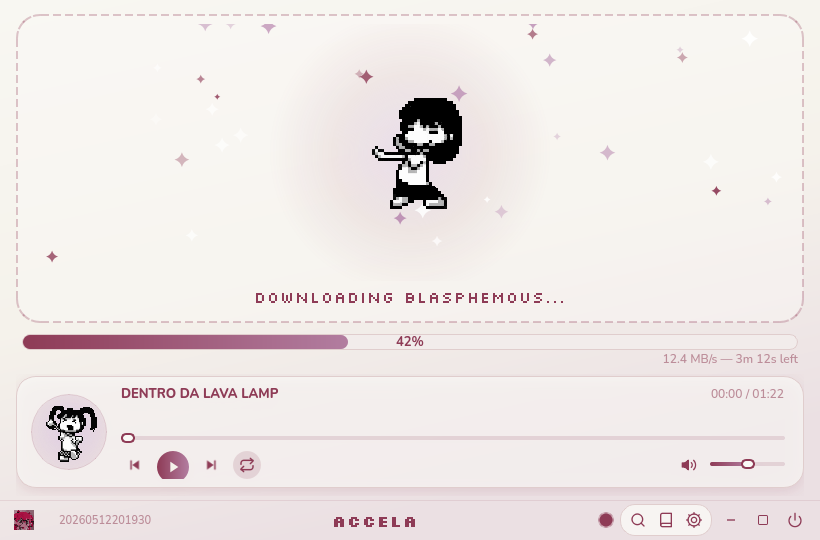
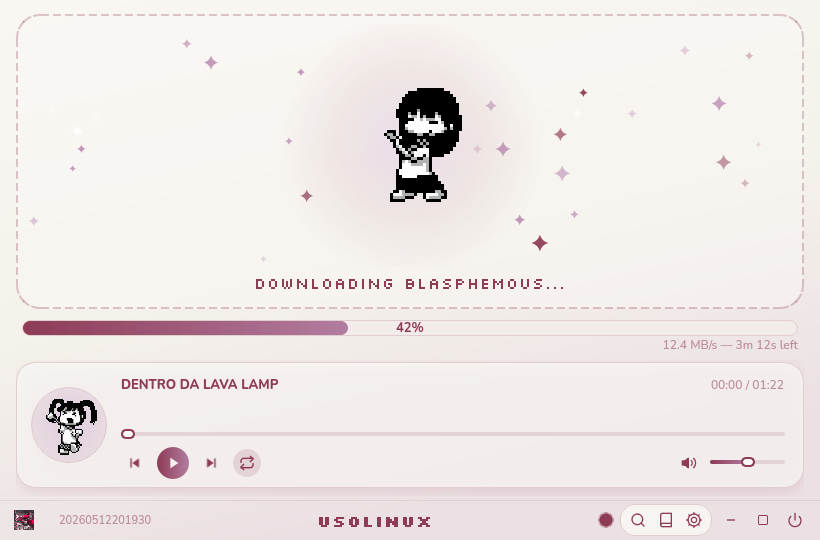
feat: rename the app to USOLINUX, fix clipped player controls
- Window title, titlebar, menu entry, installer banner and a new
  `usolinux` command (`accela` kept); internal ACCELA paths, config and
  window class stay so existing installs keep their settings
- Hyprland float rule for the USOLINUX title
- Taller player card so the play button is no longer cut off
- README rewritten as a step-by-step tutorial in Portuguese

diff --git a/theme/app_files/ui/bottom_titlebar.py b/theme/app_files/ui/bottom_titlebar.py
@@ -85,7 +85,7 @@ class BottomTitleBar(QFrame):
         left_widget = self._create_left_section()
         right_widget = self._create_right_section()
 
-        self.title_label = QLabel("ACCELA")
+        self.title_label = QLabel("USOLINUX")
         self.title_label.setObjectName("titleLabel")
         title_font = display_font(16, bold=True)
         title_font.setLetterSpacing(QFont.SpacingType.AbsoluteSpacing, 1)

diff --git a/theme/app_files/ui/music_player.py b/theme/app_files/ui/music_player.py
@@ -398,7 +398,7 @@ class MusicPlayerWidget(QWidget):
 
     def _setup_ui(self) -> None:
         """Setup frameless, clean, organized player layout."""
-        self.setFixedHeight(122)
+        self.setFixedHeight(136)
         self.setSizePolicy(QSizePolicy.Policy.Expanding, QSizePolicy.Policy.Fixed)
 
         # Floating translucent card with a soft accent shadow

diff --git a/theme/app_files/ui/main_window.py b/theme/app_files/ui/main_window.py
@@ -172,7 +172,7 @@ class MainWindow(QMainWindow):
 
     def _setup_window_properties(self) -> None:
         """Configure basic window properties."""
-        self.setWindowTitle("ACCELA")
+        self.setWindowTitle("USOLINUX")
         self.setWindowFlags(Qt.WindowType.Dialog | Qt.WindowType.FramelessWindowHint)
         self.setGeometry(100, 100, 820, 540)
 

diff --git a/README.md b/README.md
@@ -1,41 +1,77 @@
-# accela-easy-install
+# USOLINUX
 
-Full installation, custom aesthetic theme, integrated music player, and automated SLSsteam setup for ACCELA on Linux.
+Gerenciador de jogos para Linux baseado no [ACCELA](https://portal3d.github.io/accela-dist-archive/guide.html), com instalação em um comando, SLSsteam configurado automaticamente, tema dreamy Y2K e music player integrado.
 
 <div align="center">
 
-![Preview](assets/screenshot.png)
-
-![Theme Animation](theme/gifs/custom/main.gif)
+![USOLINUX](assets/screenshot.png)
 
 </div>
 
-## Overview
+## O que o instalador faz
 
-This repository provides an automated installation script and custom theme for ACCELA (Serial Experiments Lain themed game client) on Linux.
+Um único comando deixa tudo pronto:
 
-It handles SLSsteam installation and configuration (`PlayNotOwnedGames: yes`), applies a dreamy Y2K theme, disables the 50Hz electrical hum, sets up Hyprland floating window rules, and embeds an aesthetic music player with dancing pixel art.
+1. Instala as dependências do sistema e o ACCELA base (scripts do [enter-the-wired](https://github.com/ciscosweater/enter-the-wired)).
+2. Baixa a versão mais recente do [SLSsteam](https://github.com/AceSLS/SLSsteam), instala e ativa `PlayNotOwnedGames` e `API` no `~/.config/SLSsteam/config.yaml`, para os jogos aparecerem e abrirem pela Steam.
+3. Aplica o tema USOLINUX, o music player e as músicas, e instala o `cava` (visualizador).
+4. Configura a janela flutuante no Hyprland, o atalho no menu de aplicativos e o comando `usolinux` no terminal.
 
-### Theme
+Funciona em Arch/CachyOS, Debian/Ubuntu, Fedora, openSUSE e Void.
 
-- Soft pastel gradients, rounded cards and pill buttons across the main window and every dialog, all derived from the accent and background colors you pick in Settings → Style.
-- Nunito for text and Silkscreen for pixel titles (both bundled, SIL Open Font License).
-- While a game downloads, a Yume Nikki dancer appears over a glowing stage with twinkling sparkles.
-- Floating music player card with a real-time CAVA visualizer.
+## Tutorial
 
-Re-running `install.sh` or `apply-theme.sh` keeps your settings; theme colors are only set on the first apply.
+### 1. Instalar
 
-## Installation
-
-Run the one-line installer:
+Com a Steam instalada, rode no terminal:
 
 ```bash
 curl -fsSL https://raw.githubusercontent.com/gabesvr/accela-easy-install/main/install.sh | bash
 ```
 
-The script detects your Linux package manager (Arch/CachyOS, Debian/Ubuntu, Fedora, OpenSUSE, Void), installs dependencies, downloads ACCELA, configures SLSsteam, and applies the theme and shortcuts.
+O script pede a sua senha (`sudo`) para instalar pacotes. No final aparece **USOLINUX INSTALADO COM SUCESSO**.
 
-If you already have ACCELA installed and just want the theme:
+### 2. Reiniciar a Steam
+
+Feche a Steam por completo e abra de novo, para ela carregar o SLSsteam.
+
+### 3. Abrir o USOLINUX
+
+- Pelo menu de aplicativos: **USOLINUX**
+- Ou pelo terminal: `usolinux`
+
+### 4. Configurar a chave da API (para buscar jogos)
+
+1. Entre com o Discord em [hubcapmanifest.com](https://hubcapmanifest.com/).
+2. Pegue sua chave em [hubcapmanifest.com/api-keys/user](https://hubcapmanifest.com/api-keys/user).
+3. No USOLINUX, clique na engrenagem → **Integrations**.
+4. Cole a chave em **Hubcap API Key** e clique em **OK**.
+
+### 5. Baixar um jogo
+
+- **Pela busca:** clique na lupa, pesquise o jogo e escolha o que baixar.
+- **Por arquivo:** arraste um `.zip` de manifest para a janela. Não precisa de chave.
+
+Durante o download aparece a animação com a dançarina de Yume Nikki e a barra de progresso. Quando terminar, reinicie a Steam: o jogo aparece na biblioteca pronto para jogar.
+
+### 6. Biblioteca
+
+O ícone de livro mostra os jogos instalados, o tamanho de cada um e se há atualização.
+
+## Tema
+
+- Gradientes pastel, cards arredondados e botões em pílula na janela principal e em todos os diálogos.
+- As cores vêm da cor de destaque e da cor de fundo escolhidas em **Configurações → Style**: mude as duas e o app inteiro acompanha.
+- Fontes Nunito (texto) e Silkscreen (títulos pixel), incluídas no tema (SIL Open Font License).
+- Music player flutuante com visualizador CAVA em tempo real e mascote de Yume Nikki (clique nele para trocar a dança).
+
+## Músicas
+
+Coloque arquivos `.mp3`, `.flac`, `.ogg`, `.wav` ou `.m4a` em `~/.local/share/ACCELA/music/` ou `~/Music/ACCELA/`. O player toca todos em sequência.
+
+## Já tem o ACCELA instalado?
+
+Aplique só o tema:
 
 ```bash
 git clone https://github.com/gabesvr/accela-easy-install.git
@@ -43,24 +79,21 @@ cd accela-easy-install
 ./apply-theme.sh
 ```
 
-## Setup
+Rodar o `install.sh` ou o `apply-theme.sh` de novo atualiza o tema e mantém as suas configurações. As cores do tema só são impostas na primeira vez.
 
-To search and download games directly through the interface:
+## Problemas comuns
 
-1. Log in with Discord at [hubcapmanifest.com](https://hubcapmanifest.com/).
-2. Get your key at [hubcapmanifest.com/api-keys/user](https://hubcapmanifest.com/api-keys/user).
-3. In ACCELA, open Settings (gear icon) -> Integrations.
-4. Paste your Morrenus API Key and save.
+- **O jogo não aparece na Steam:** reinicie a Steam por completo e confira se `~/.config/SLSsteam/config.yaml` tem `PlayNotOwnedGames: yes`.
+- **O visualizador do player fica vazio:** instale o `cava` pelo gerenciador de pacotes da sua distro.
+- **Nenhuma música toca:** confira se há arquivos de áudio em `~/.local/share/ACCELA/music/`.
 
-You can also drag and drop `.zip` manifest files directly into the window without an API key.
+## Desenvolvimento
 
-## Custom Music
+`./dev-sync.sh --run` copia o código de `theme/app_files` para a instalação local e abre o app, sem mexer na configuração.
 
-Drop your `.mp3` files into `~/.local/share/ACCELA/music/`. The player will automatically detect and play them.
+## Créditos
 
-## Credits
-
-- [CiscoSweater (ciskao)](https://github.com/ciscosweater) - [enter-the-wired](https://github.com/ciscosweater/enter-the-wired) installer and Linux packaging.
-- [AceSLS](https://github.com/AceSLS/SLSsteam) - SLSsteam.
-- Tachibana Labs / Morrenus - Original ACCELA client.
-- gabesvr - Theme design, music player integration, and automated installer.
+- Tachibana Labs / Morrenus: ACCELA original.
+- [CiscoSweater (ciskao)](https://github.com/ciscosweater): [enter-the-wired](https://github.com/ciscosweater/enter-the-wired), instalador e empacotamento para Linux.
+- [AceSLS](https://github.com/AceSLS/SLSsteam): SLSsteam.
+- gabesvr: USOLINUX, tema, music player e instalador automático.
